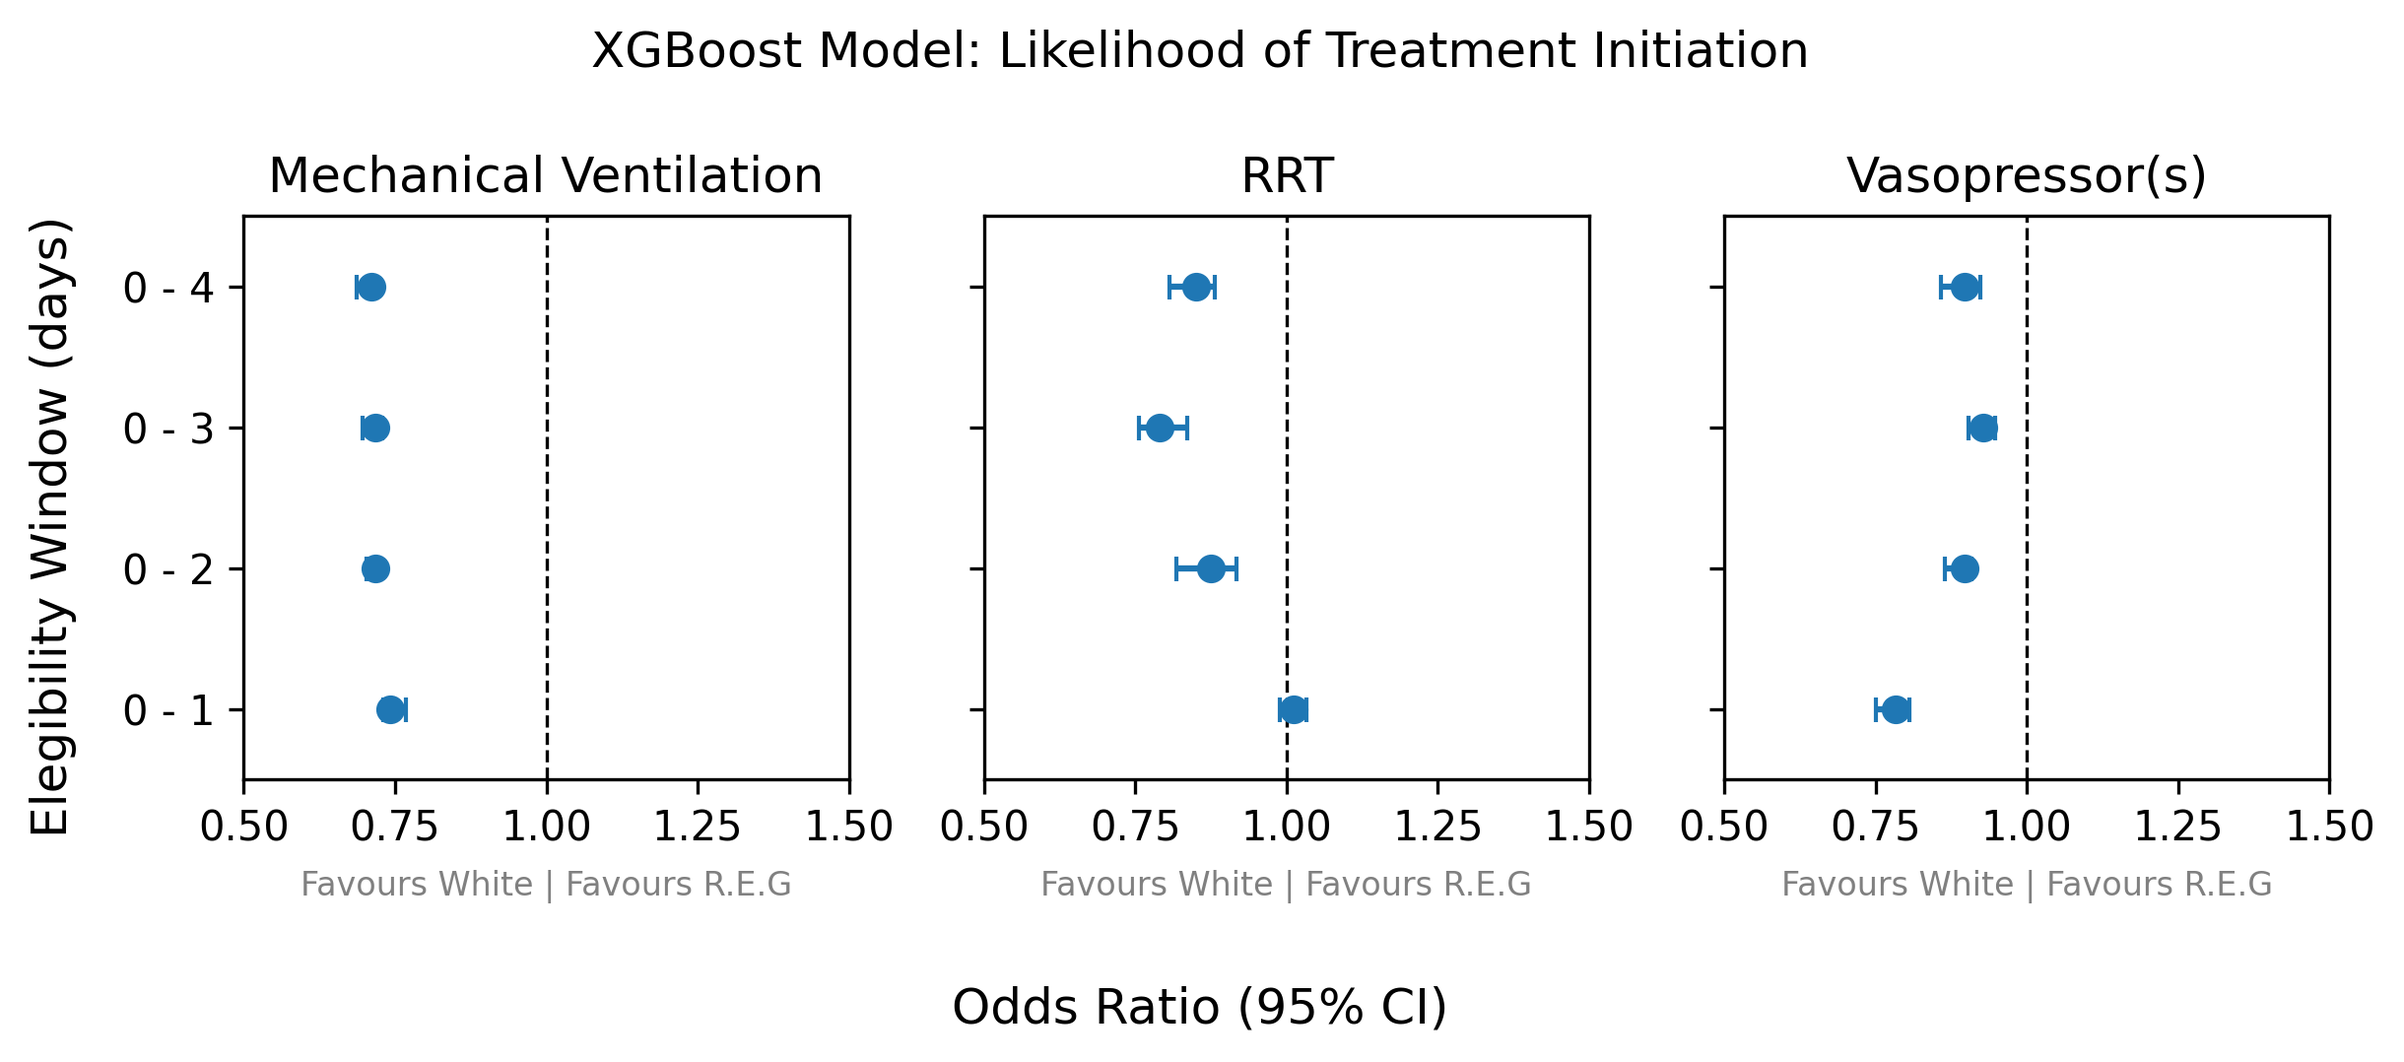
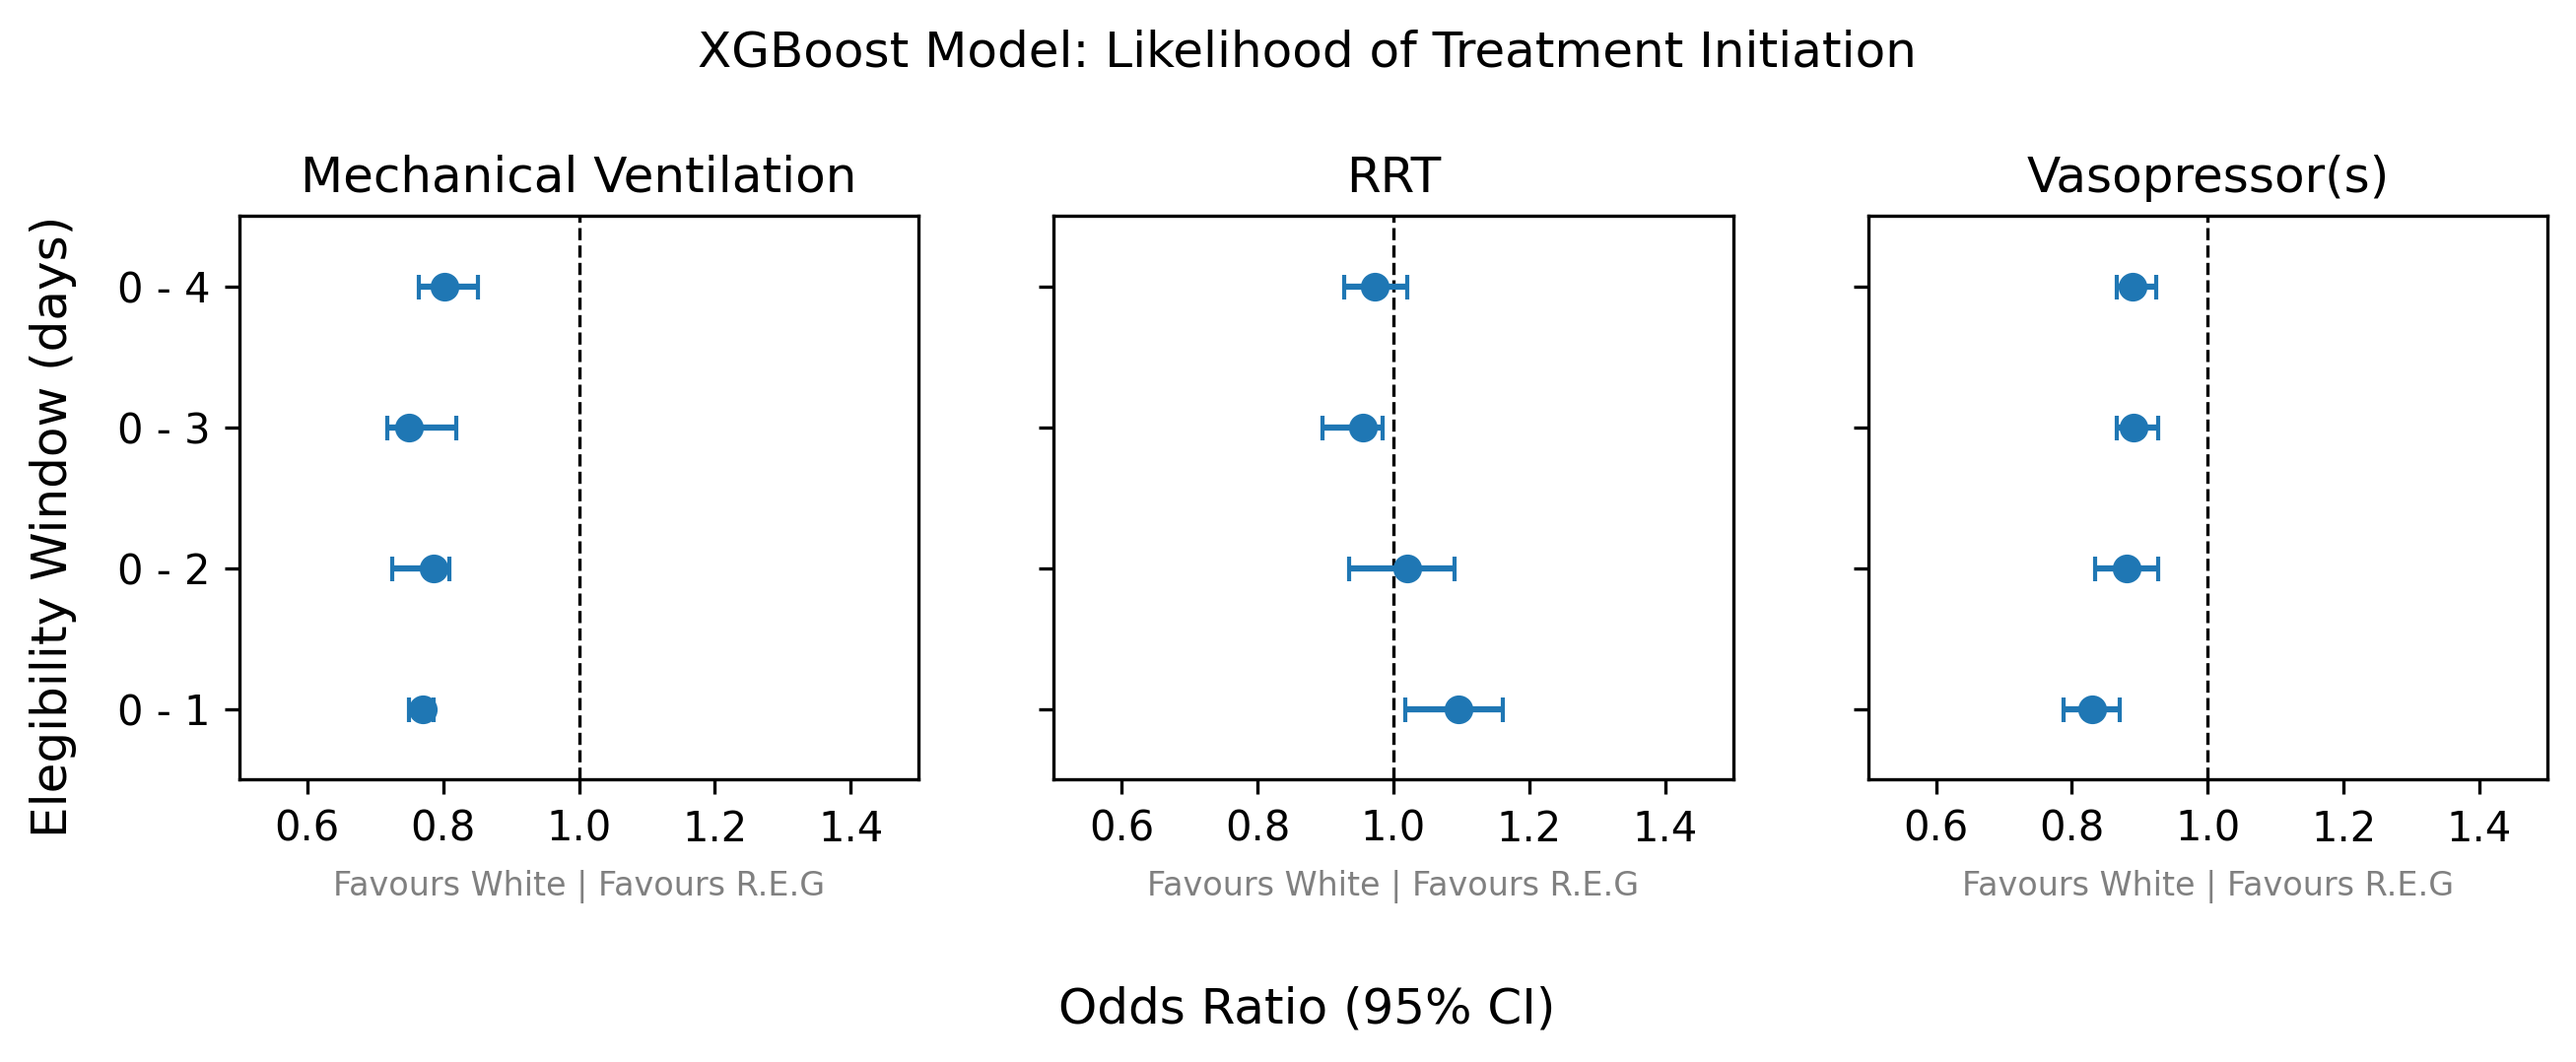
Results with 20% of the data, consistently

diff --git a/src/models/logreg_cv_all_coh.py b/src/models/logreg_cv_all_coh.py
@@ -2,18 +2,10 @@ import pandas as pd
 import numpy as np
 import shap
 from tqdm import tqdm
-from xgboost import XGBClassifier
+import statsmodels.api as sm
 from sklearn.model_selection import StratifiedKFold
 
-setting = "cv_all_coh"
-
-# function to calculate odds ratio
-def calc_OR(shap_values, data, feature):
-    control_group = shap_values[(data[feature] == 0)].mean()
-    study_group   = shap_values[(data[feature] == 1)].mean()
-
-    return np.exp(study_group[feature]) / np.exp(control_group[feature])
-
+setting = "logreg_cv_all_coh"
 
 # now read treatment from txt
 with open("config/treatments.txt", "r") as f:
@@ -68,17 +60,13 @@ for cohort in cohorts:
                     X_train, X_test = X.iloc[train_index,:], X.iloc[test_index,:]
                     y_train, y_test = y.iloc[train_index], y.iloc[test_index]
 
-                    model = XGBClassifier()
-                    model.fit(X_test, y_test)
+                    # Fit logistic regression model
+                    logreg = sm.Logit(y_test, X_test).fit(method='bfgs')
+                    # get parameter and OR for our variable of interest
+                    param = logreg.params[race]
+                    OR_inner = np.exp(param)
 
-                    # shap explainer
-                    explainer = shap.TreeExplainer(model, X_test)
-                    shap_values = explainer(X_test, check_additivity=False)
-
-                    shap_values = pd.DataFrame(shap_values.values, columns=conf)
-
-                    OR_inner = calc_OR(shap_values, X_test.reset_index(drop=True), race)
-                    # append OR to list
+                    # # append OR to list
                     ORs.append(OR_inner)
 
                     print(f"OR: {OR_inner:.5f}")
@@ -101,4 +89,4 @@ for cohort in cohorts:
                                             "2.5%": CI_lower,
                                             "97.5%": CI_upper}, ignore_index=True)
             # save results as we go
-            results_df.to_csv(f"results/models/xgb_{setting}.csv", index=False)
+            results_df.to_csv(f"results/models/{setting}.csv", index=False)

diff --git a/src/plots/white_nonwhite.py b/src/plots/white_nonwhite.py
@@ -18,7 +18,7 @@ treatment_groups = data.groupby("treatment")
 # Set the figure and axes
 fig, axes = plt.subplots(1, 3,
                          sharex=True, sharey=True,
-                         figsize=(8.25,3.5))
+                         figsize=(9,3.5))
 
 fig.suptitle(f'{model_name} Model: Likelihood of Treatment Initiation')
 
